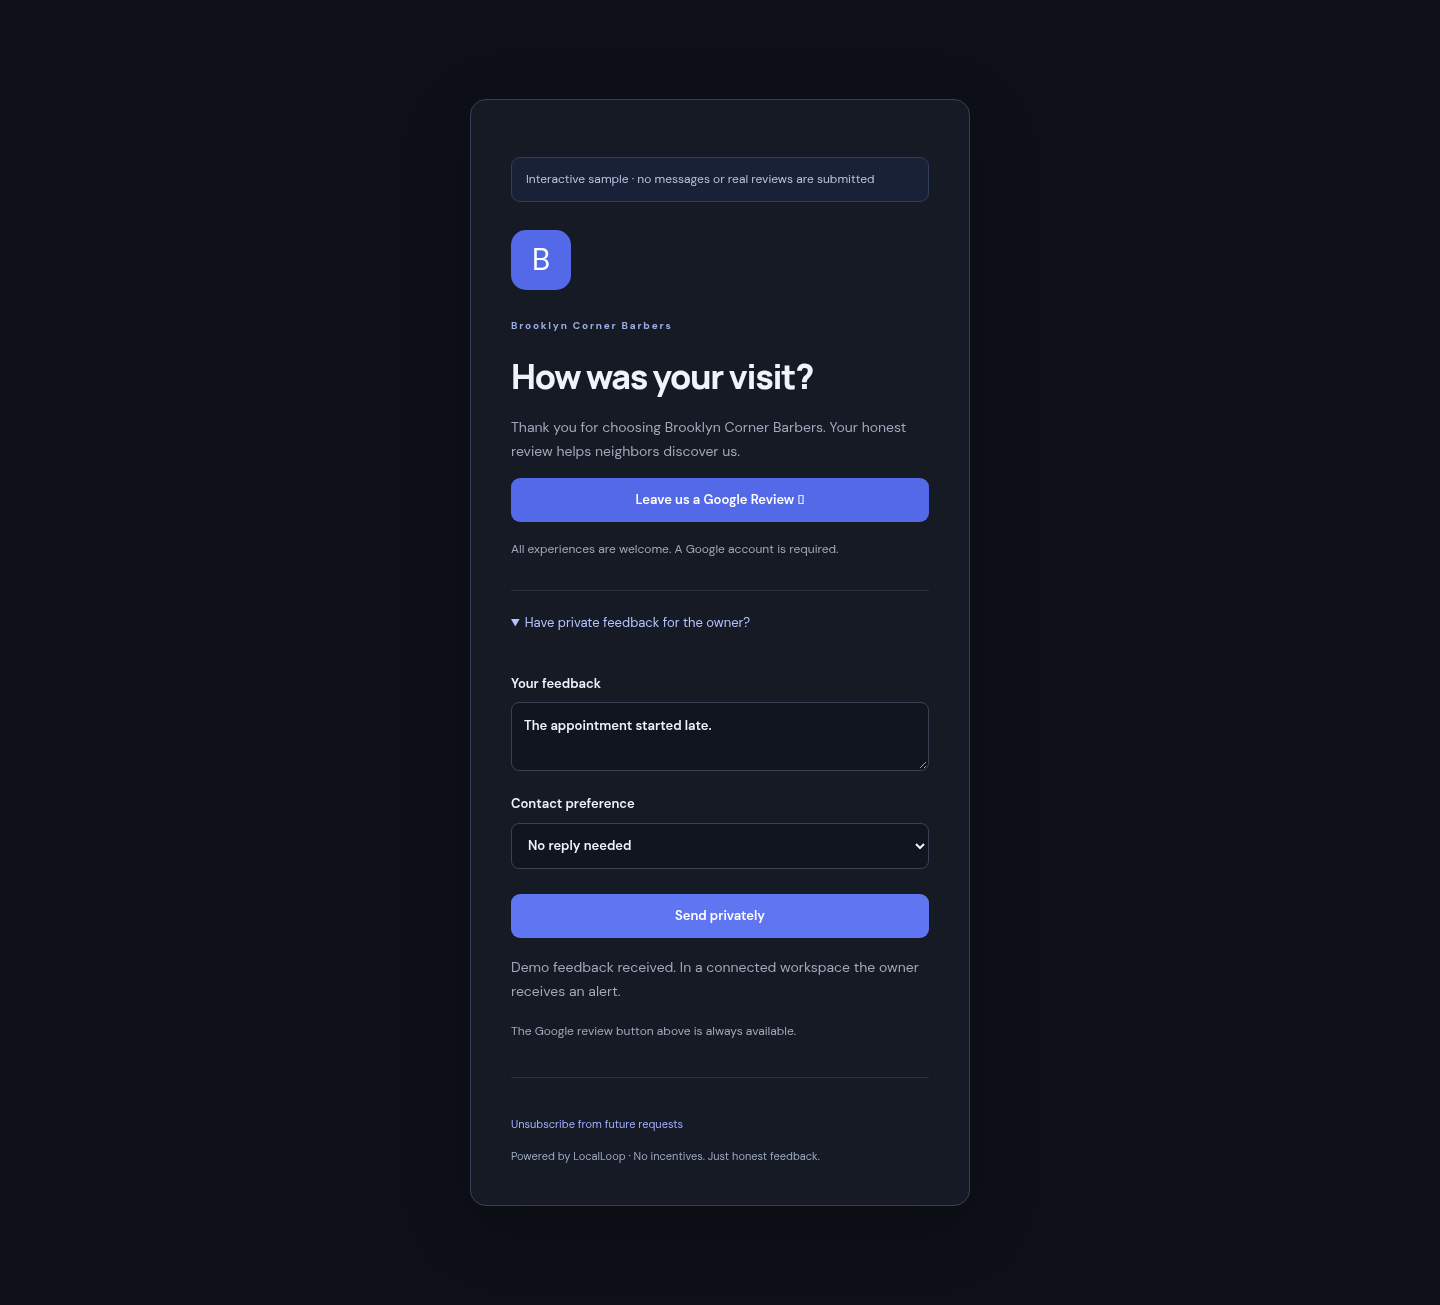
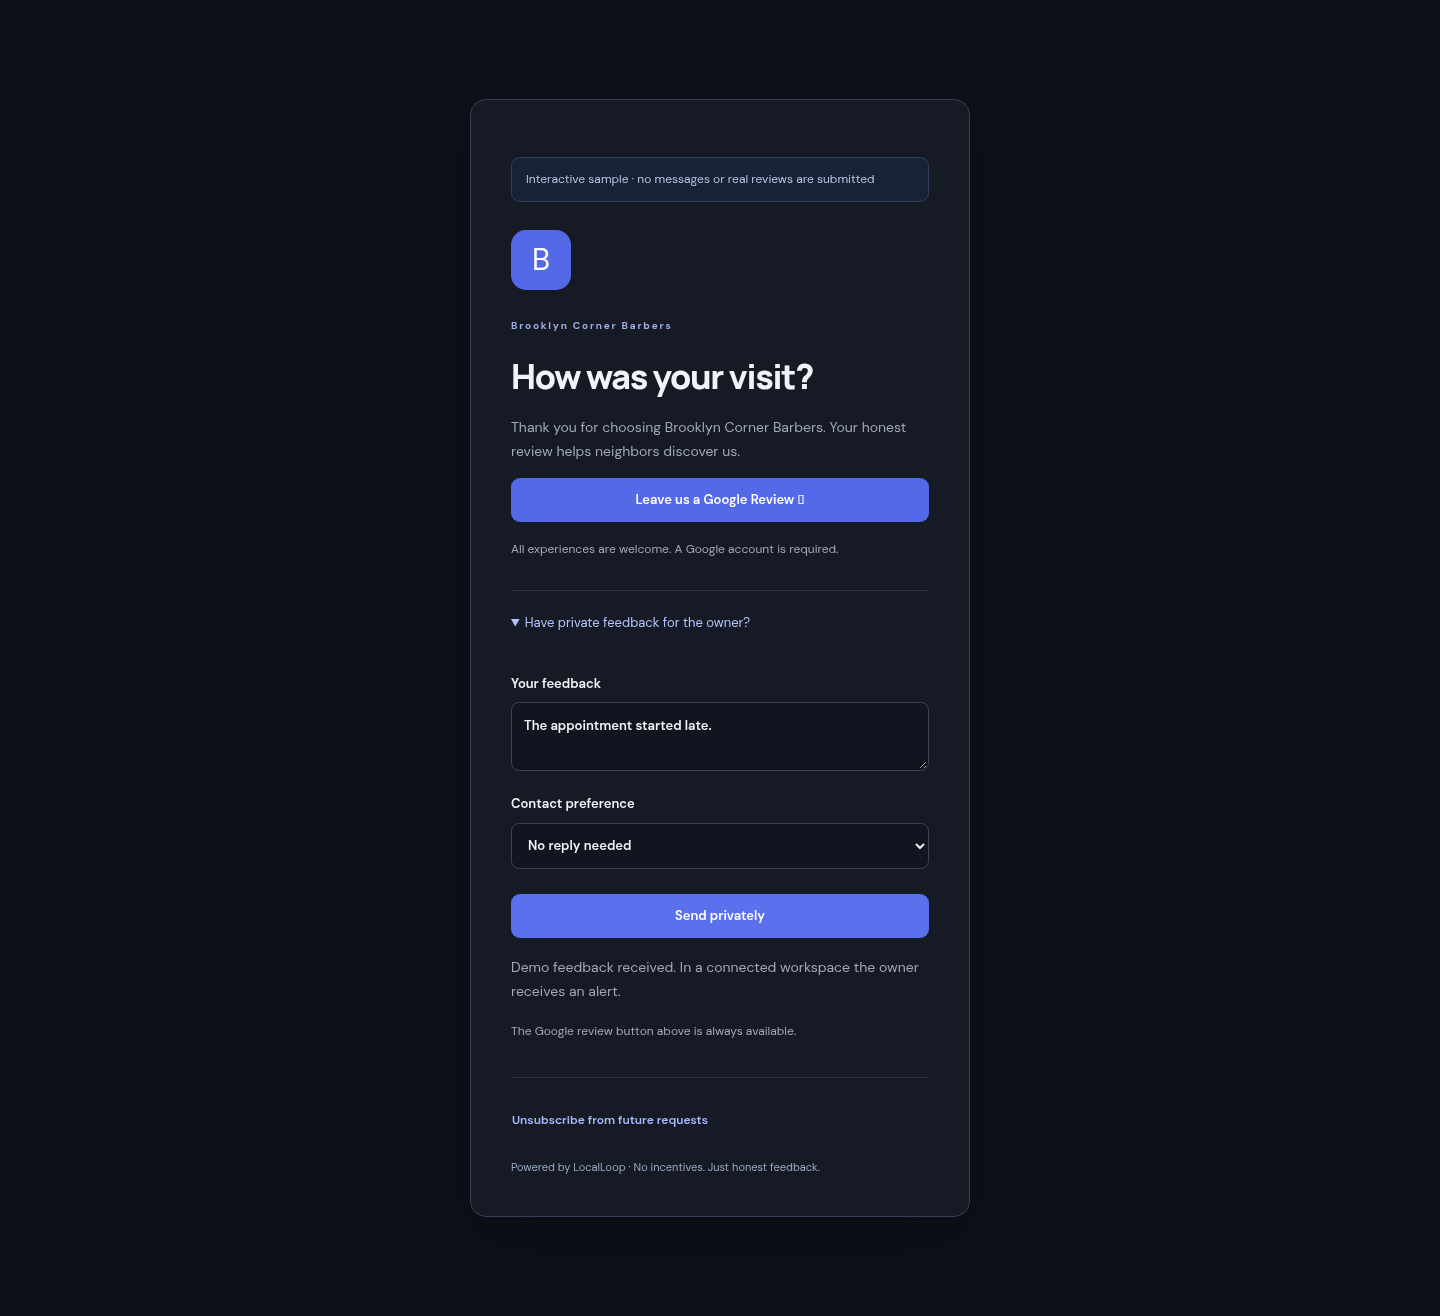
Harden first-login context, consent checks, outreach metrics and one-tap opt-out

diff --git a/tests/engine.test.ts b/tests/engine.test.ts
@@ -116,6 +116,32 @@ test("upgraded schema: roles, multi-tenant metrics, immediate cancellation, seed
         .length,
       4,
     );
+    await db.exec("set role authenticated");
+    assert.equal(
+      (
+        await db.query<{ m: { contacted: number } }>(
+          `select dashboard_metrics($1) m`,
+          [a],
+        )
+      ).rows[0].m.contacted,
+      0,
+    );
+    await db.exec("reset role");
+    await db.query(
+      `update messages set status='sent',sent_at=now() where request_id=$1 and channel='email' and step=0`,
+      [rid],
+    );
+    await db.exec("set role authenticated");
+    assert.equal(
+      (
+        await db.query<{ m: { contacted: number } }>(
+          `select dashboard_metrics($1) m`,
+          [a],
+        )
+      ).rows[0].m.contacted,
+      1,
+    );
+    await db.exec("reset role");
     await db.query(`select suppress_contact('+12125550123','sms','test')`);
     assert.equal(
       (
@@ -133,7 +159,7 @@ test("upgraded schema: roles, multi-tenant metrics, immediate cancellation, seed
           [rid],
         )
       ).rows[0].n,
-      2,
+      1,
     );
     await db.query(`update requests set clicked_at=now() where id=$1`, [rid]);
     assert.equal(

diff --git a/app/r/[slug]/unsubscribe.tsx b/app/r/[slug]/unsubscribe.tsx
@@ -1,0 +1,44 @@
+"use client";
+import { useState } from "react";
+export default function UnsubscribeButton({
+  token,
+  demo,
+}: {
+  token: string;
+  demo: boolean;
+}) {
+  const [state, setState] = useState("");
+  const [busy, setBusy] = useState(false);
+  return (
+    <div>
+      <button
+        className="text-button"
+        type="button"
+        disabled={busy || state.startsWith("You’re unsubscribed")}
+        onClick={async () => {
+          setBusy(true);
+          try {
+            if (!demo) {
+              const r = await fetch(
+                `/api/unsubscribe?t=${encodeURIComponent(token)}`,
+                { method: "POST" },
+              );
+              if (!r.ok)
+                throw new Error("Could not unsubscribe. Please try again.");
+            }
+            setState(
+              "You’re unsubscribed from future requests from this business.",
+            );
+          } catch (e) {
+            setState(e instanceof Error ? e.message : "Please try again.");
+          } finally {
+            setBusy(false);
+          }
+        }}
+      >
+        Unsubscribe from future requests
+      </button>
+      <p role="status">{state}</p>
+    </div>
+  );
+}

diff --git a/tests/browser/demo.spec.ts b/tests/browser/demo.spec.ts
@@ -26,7 +26,7 @@ test("owner dashboard, customer feedback and one-tap review demo", async ({
     .getByLabel("Your feedback", { exact: true })
     .fill("The appointment started late.");
   await page.getByRole("button", { name: "Send privately" }).click();
-  await expect(page.getByRole("status")).toContainText(
+  await expect(page.locator("details").getByRole("status")).toContainText(
     "Demo feedback received",
   );
   await expect(google).toBeEnabled();
@@ -37,6 +37,18 @@ test("owner dashboard, customer feedback and one-tap review demo", async ({
   await google.click();
   await expect(
     page.getByRole("heading", { name: "One tap to Google." }),
+  ).toBeVisible();
+  await page.goto("/r/demo-visit");
+  await page
+    .getByRole("button", { name: "Unsubscribe from future requests" })
+    .click();
+  await expect(
+    page.getByText(
+      "You’re unsubscribed from future requests from this business.",
+    ),
+  ).toBeVisible();
+  await expect(
+    page.getByRole("link", { name: "Leave us a Google Review" }),
   ).toBeVisible();
   await page.goto("/unsubscribe?t=demo-visit");
   await page.getByRole("button", { name: "Unsubscribe", exact: true }).click();

diff --git a/lib/supabase.ts b/lib/supabase.ts
@@ -41,7 +41,7 @@ export async function owner() {
   if (!user) throw new Error("Unauthorized");
   const jar = await cookies();
   let orgId = jar.get("organization_id")?.value;
-  const { data: operator } = await db
+  const { data: operator, error: operatorError } = await db
     .from("operators")
     .select("user_id")
     .eq("user_id", user.id)
@@ -51,7 +51,19 @@ export async function owner() {
     .select("org_id,role")
     .eq("user_id", user.id);
   if (error) throw error;
-  if (!orgId) orgId = members?.[0]?.org_id;
+  if (operatorError) throw operatorError;
+  if (!orgId || (!operator && !members?.some((m) => m.org_id === orgId)))
+    orgId = members?.[0]?.org_id;
+  if (operator && !orgId) {
+    const { data: first, error: firstError } = await db
+      .from("organizations")
+      .select("id")
+      .order("created_at")
+      .limit(1)
+      .maybeSingle();
+    if (firstError) throw firstError;
+    orgId = first?.id;
+  }
   const member = members?.find((m) => m.org_id === orgId);
   if (!orgId || (!member && !operator))
     throw new Error("Create your organization first.");

diff --git a/app/r/[slug]/page.tsx b/app/r/[slug]/page.tsx
@@ -1,5 +1,6 @@
 import { notFound } from "next/navigation";
 import Feedback from "./feedback";
+import UnsubscribeButton from "./unsubscribe";
 import { googleLink } from "@/lib/core";
 import { publicBusiness } from "@/lib/public";
 export default async function Review({
@@ -61,13 +62,7 @@ export default async function Review({
       </p>
       <Feedback token={token} slug={o.slug} demo={demo} />
       <footer>
-        {token && (
-          <p>
-            <a href={`/unsubscribe?t=${token}`}>
-              Unsubscribe from future requests
-            </a>
-          </p>
-        )}
+        {token && <UnsubscribeButton token={token} demo={demo} />}
         Powered by LocalLoop · No incentives. Just honest feedback.
       </footer>
     </main>

diff --git a/lib/dashboard.ts b/lib/dashboard.ts
@@ -75,6 +75,15 @@ export async function dashboardData(): Promise<DashboardData | null> {
     .eq("user_id", user.id)
     .maybeSingle();
   if (!members?.length && !operator) return null;
+  if (!members?.length && operator) {
+    const { data: first, error: firstError } = await db
+      .from("organizations")
+      .select("id")
+      .limit(1)
+      .maybeSingle();
+    if (firstError) throw firstError;
+    if (!first) return null;
+  }
   const ctx = await owner();
   const oid = ctx.orgId;
   const results = await Promise.all(

diff --git a/lib/messaging.ts b/lib/messaging.ts
@@ -37,6 +37,8 @@ export async function runQueue(requestId?: string) {
         .maybeSingle();
       if (se) throw se;
       if (
+        !c.consent_at ||
+        !c.consent_source ||
         suppressed ||
         !eligible(c, job.channel) ||
         (job.step > 0 && r.clicked_at)

diff --git a/VERIFICATION.md b/VERIFICATION.md
@@ -18,3 +18,5 @@ Raw logs are under `audit-evidence/`. Browser screenshots: `dashboard-desktop.pn
 No Supabase, Twilio, Resend, Google, or Vercel credentials are configured in this workspace. Hosted Supabase Auth/RLS, actual SMS/email delivery, signed provider round trips, Google OAuth/ingestion, owner-alert delivery and deployed cron execution were not live-tested. They require account setup and a consented acceptance test. The SQL tests use embedded PostgreSQL with an Auth stub; they are not a substitute for hosted account verification.
 
 No customer messages were sent, no raw card data is collected, and no public deployment was activated. Source push and local passing tests do not by themselves activate services or prove commercial outcomes.
+
+Follow-up verification also covers one-tap unsubscribe directly from the request-page footer, operator first-login workspace selection, blocking legacy jobs without consent evidence, and excluding queued-only requests from customers-contacted metrics. All checks and browser groups pass after these changes.
